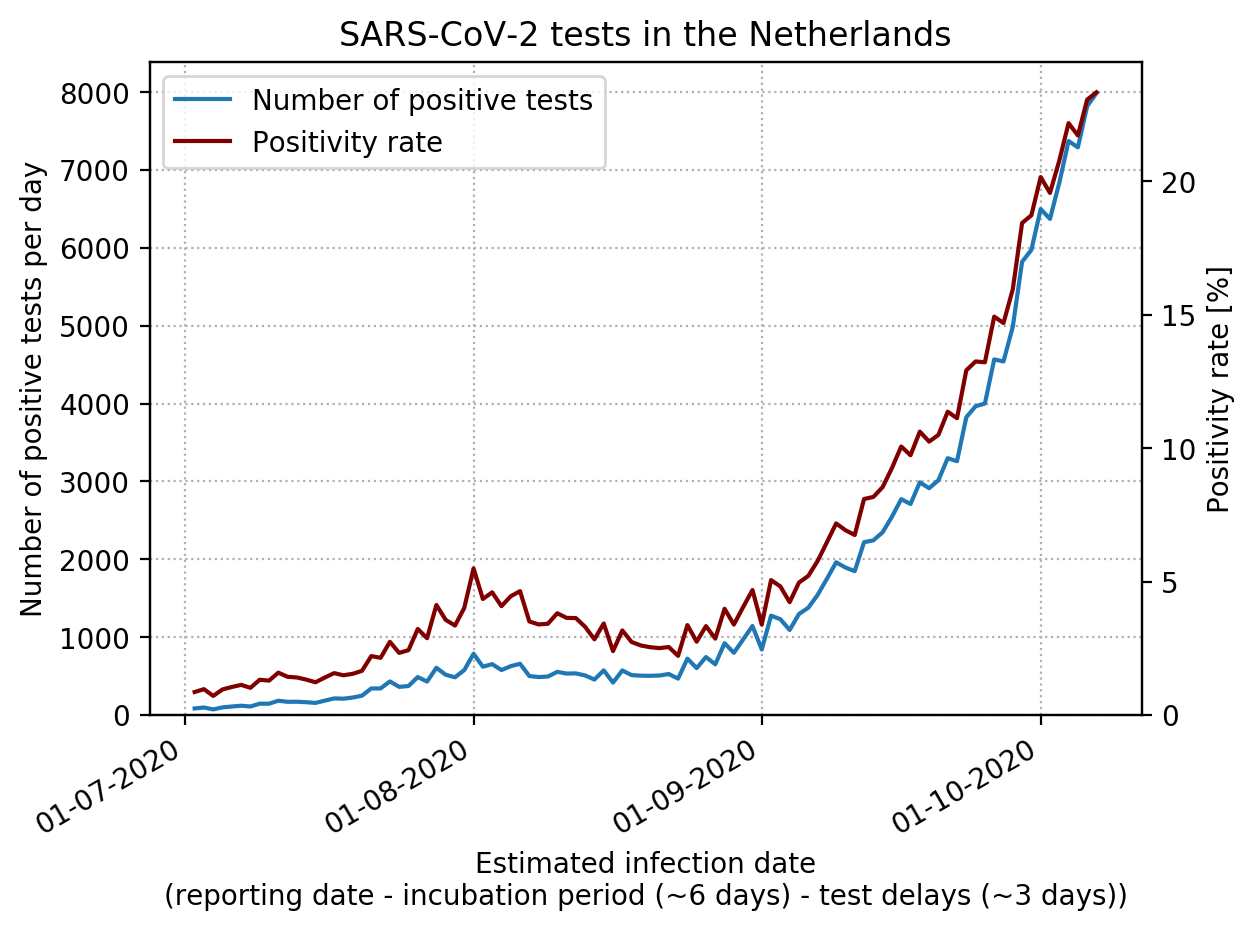
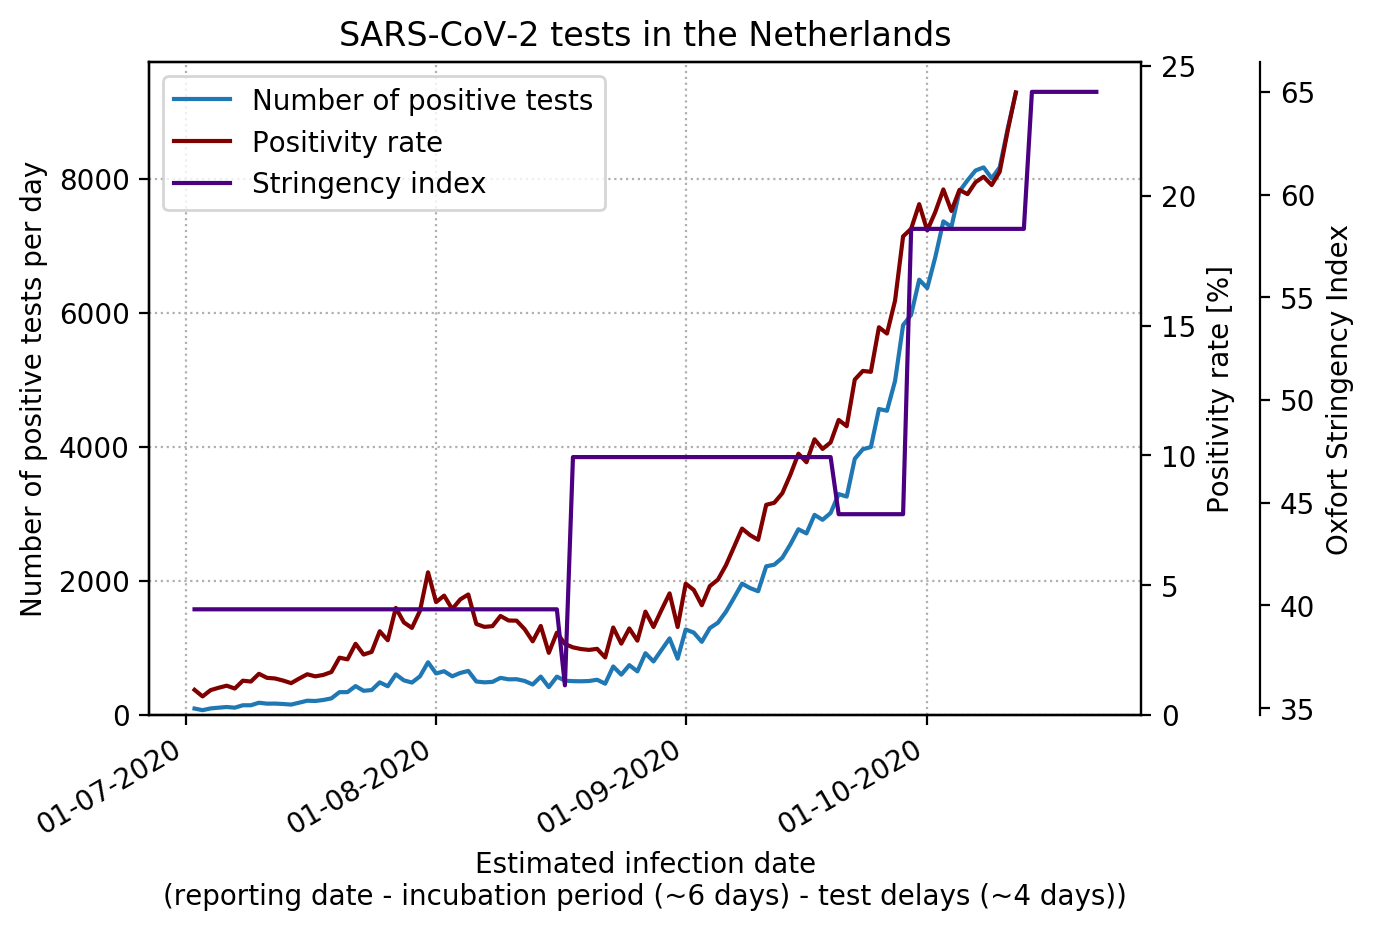
Added the stringency index to the plot of positive tests in the second wave

diff --git a/model_coronavirus_supression.py b/model_coronavirus_supression.py
@@ -95,23 +95,35 @@ def load_deathdata():
 
 def load_government_response_data():
 	url = 'https://raw.githubusercontent.com/OxCGRT/covid-policy-tracker/master/data/OxCGRT_latest.csv'
-	fname = f'{dataloc}OxCGRT_latest.csv'
+	raw_fname = f'{dataloc}OxCGRT_latest.csv'
 
-	downloadSave(url, fname, check_file_exists = True)
+	#filename of the csv data containing only the desired dutch data
+	nl_fname = f'{dataloc}OxCGRT_NL.csv'
 
+	#read the data from the Netherlands only, this allows you to easily add extra
+	#data which the Oxfort team has not yet added themselves (recent response etc)
+	try:
+		df_response = pd.read_csv(nl_fname)
 
-	df_response = pd.read_csv(fname)
+		#read dates
+		df_response['Date'] = pd.to_datetime(df_response['Date'], format = '%Y-%m-%d')
+		df_response.set_index('Date', inplace = True)
+	except OSError:
+		downloadSave(url, raw_fname, check_file_exists = True)
 
-	#filter on the netherlands
-	df_response = df_response.loc[df_response['CountryCode'] == 'NLD']
+		df_response = pd.read_csv(raw_fname)
 
-	#select desired columns
-	df_response = df_response[['Date', 'StringencyIndex']]
+		#filter on the netherlands
+		df_response = df_response.loc[df_response['CountryCode'] == 'NLD']
 
-	#read dates
-	df_response['Date'] = pd.to_datetime(df_response['Date'], format = '%Y%m%d')
+		#select desired columns
+		df_response = df_response[['Date', 'StringencyIndex']]
 
-	df_response.set_index('Date', inplace = True)
+		#read dates
+		df_response['Date'] = pd.to_datetime(df_response['Date'], format = '%Y%m%d')
+		df_response.set_index('Date', inplace = True)
+
+		df_response.to_csv(nl_fname)
 
 	return df_response
 
@@ -510,11 +522,15 @@ def plot_daily_results():
 	df_daily_covid = load_daily_covid(correct_for_delay = False)
 	df_n_tests = load_number_of_tests()
 
+	df_response = load_government_response_data()
+
+	print(df_response)
+
 	### correct for the delay between the onset of symptoms and the result of the test
 	#for source of incubation period, see the readme
 	incubation_period = 6 #days, left of average of 8.3 due to extremely skewed distribution
 	#test delay determined from anecdotal evidence
-	time_to_test_delay = 2 #days
+	time_to_test_delay = 3 #days
 	result_delay = 1
 
 	#correct the results to the day of the test
@@ -522,6 +538,8 @@ def plot_daily_results():
 
 	#merge datasets
 	df_daily_covid = df_daily_covid.merge(df_n_tests[['Number_of_tests']], right_index = True, left_index = True)
+
+	print(df_daily_covid[['Number_of_tests', 'Total_reported']].tail())
 
 	#determine test positivity rate
 	df_daily_covid['Positivity_ratio'] = df_daily_covid['Total_reported']/df_daily_covid['Number_of_tests']
@@ -533,27 +551,37 @@ def plot_daily_results():
 	#select second wave of infections
 	startdate = '2020-07-01'
 	df_daily_covid = df_daily_covid.loc[df_daily_covid.index > startdate]
+	df_response = df_response.loc[df_response.index > startdate]
 
 	print(df_daily_covid['Positivity_ratio'])
 
 	fig, ax1 = plt.subplots()
 
 	ax2 = ax1.twinx()
+	#third y axis for government response
+	ax3 = ax1.twinx()
+	ax3.spines['right'].set_position(('axes', 1.12))
+
 
 	#plot number of positive tests
 	lns1 = ax1.plot(df_daily_covid.index, df_daily_covid['Total_reported'], label = 'Number of positive tests')
+	# ax1.plot(df_daily_covid.index, df_daily_covid['Number_of_tests'])
 	#plot test positivity rate
 	lns2 = ax2.plot(df_daily_covid.index, df_daily_covid['Positivity_ratio']*100, label = 'Positivity rate', color = 'maroon')
 
+	#also plot government response
+	lns3 = ax3.plot(df_response.index, df_response['StringencyIndex'], label = 'Stringency index', color = 'indigo')
+
 	ax1.grid(linestyle = ':')
 
-	lns = lns1 + lns2
+	lns = lns1 + lns2 + lns3
 	labs = [l.get_label() for l in lns]
 	ax1.legend(lns, labs, loc='best')
 
-	ax1.set_xlabel('Estimated infection date\n(reporting date - incubation period (~6 days) - test delays (~3 days))')
+	ax1.set_xlabel(f'Estimated infection date\n(reporting date - incubation period (~6 days) - test delays (~{time_to_test_delay + result_delay} days))')
 	ax1.set_ylabel('Number of positive tests per day')
 	ax2.set_ylabel('Positivity rate [%]')
+	ax3.set_ylabel('Oxfort Stringency Index')
 
 	ax1.set_title('SARS-CoV-2 tests in the Netherlands')
 
@@ -1090,7 +1118,7 @@ def estimate_recent_prevalence():
 def main():
 	# government_response_results_simple()
 
-	estimate_recent_R()
+	# estimate_recent_R()
 
 	# estimate_recent_prevalence()
 
@@ -1098,7 +1126,7 @@ def main():
 
 	# plot_mobility()
 
-	# plot_daily_results()
+	plot_daily_results()
 
 	# plot_sewage()
 

diff --git a/README.md b/README.md
@@ -36,8 +36,11 @@ Sewage measurements:
 [Raw data](https://raw.githubusercontent.com/OxCGRT/covid-policy-tracker/master/data/OxCGRT_latest.csv)
 
 [Codebook](https://github.com/OxCGRT/covid-policy-tracker/blob/master/documentation/codebook.md) that indicates the meaning for various flags etc.
+[Methodology](https://github.com/OxCGRT/covid-policy-tracker/blob/master/documentation/index_methodology.md) for calculating the indices.
 
 [Single country single day API](https://covidtrackerapi.bsg.ox.ac.uk/api/v2/stringency/actions/NLD/2020-09-20)
+
+Timeline of coronavirus in the Netherlands, including each change in government response: [link](https://www.tijdlijncoronavirus.nl/)
 
 #### Detailed statistics
 Incubation period
